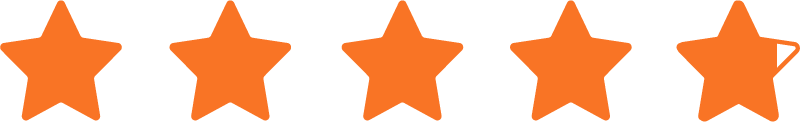
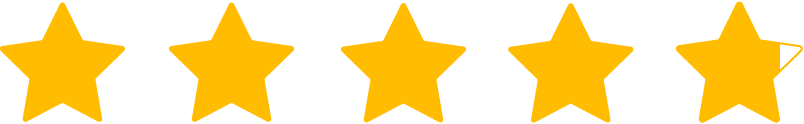
Cambios color loader, titulo video, reposicion secciones, color fondo contadores, redondeo clientes, estrellas clientes y equipo, título y ancho medios, rediseño footer

diff --git a/index.html b/index.html
@@ -69,7 +69,7 @@
 		<div class="loader-wrapper">
 			<div class="loader">
 				<div class="container-logo">
-					<img src="assets/img/Isotipo_medismart.png">
+					<img src="assets/img/Isotipo-medismart-blanco.png">
 				</div>	
 			</div>
 			<div class="loader-section section-left"></div>
@@ -363,6 +363,18 @@
 				</div>
 			</div>
 		</div>
+		<!-- End Banco Estado Area -->
+
+		<!-- Start Título y Video Area -->
+		<div class="banner-titulo pt-100 pb-70">
+			<div class= "celda">
+				<div class="titulo">¿SABÍAS QUE SOLO 4 DE CADA 10 VISITAS AL MÉDICO NECESITAN HACERSE DE FORMA PRESENCIAL?</div>
+				<video width="676" height="380" poster="assets/img/home-one/poster-video.png" controls>
+					<source src="assets/img/home-one/video-Medismart.mp4" type="video/mp4">
+				</video>
+			</div>
+		</div>
+		<!-- End Título y Video Area -->
 
 		<!-- Start Especialidades Area -->
 		<section class="area-especialidades">
@@ -436,15 +448,6 @@
 		</section>
 
 		<!-- End Especialidades Area -->
-
-		<!-- Start Título y Video Area -->
-		<div class="banner-titulo">
-			<div class= "celda">
-				<div class="titulo">¿SABÍAS QUE SOLO 4 DE CADA 10 VISITAS AL MÉDICO NECESITAN HACERSE DE FORMA PRESENCIAL?</div>
-				
-			</div>
-		</div>
-		<!-- End Título y Video Area -->
 
 		<!-- Start Nuestras Características Area -->
 		<section class="area-caracteristicas jarallax" data-jarallax='{"speed": 0.3}'>
@@ -541,18 +544,6 @@
 			</div>
 		</section>
 		<!-- End Contador Area -->
-
-		<!-- Start Video Presentación Area -->
-		<div class="banner-titulo">
-			<div class= "celda">
-				<video width="676" height="380" poster="assets/img/home-one/poster-video.png" controls>
-					<source src="assets/img/home-one/video-Medismart.mp4" type="video/mp4">
-				</video>
-				
-				
-			</div>
-		</div>
-		<!-- End Video Presentación Area -->
 
 		
 
@@ -904,7 +895,7 @@
 					</div>
 				</div>
 				<div class="sector-boton">
-					<a href="#" class="default-btn">
+					<a href="#" class="default-btn-3">
 						<div clas="text-area" style="text-decoration: none;">VER MÁS</div>
 					</a>
 				</div>
@@ -1126,7 +1117,7 @@
 											</div>
 
 											<div class="col-lg-12 col-sm-12">
-												<button type="submit" class="default-btn btn-two">
+												<button type="submit" class="default-btn-3 btn-two">
 													Enviar
 												</button>
 												<div id="msgSubmit" class="h3 text-center hidden"></div>
@@ -1152,8 +1143,11 @@
 		<!-- End Contacto Area -->
 
 		<!-- Start Medios Area -->
-		<section class="area-medios">
+		<section class="area-medios pt-100 pb-70">
 			<div class="container">
+				<div class="section-title">
+					DESTACADO EN
+				</div>
 				<div class="wrap-medios">
 					<div class="medio" style="width: 131px;">
 						<img src="assets/img/home-one/medios/Diario_Financiero_logo.png">
@@ -1188,7 +1182,7 @@
 					<div class="col-lg-3 col-md-6">
 						<div class="single-widget">
 							<a href="index.html">
-								<img src="assets/img/logo-medismart.png" alt="Image">
+								<img src="assets/img/logo-medismart-blanco.png" alt="Image">
 							</a>
 
 							<p>Compañía de telemedicina chilena líder en experiencia de pacientes en, contamos con un innovador modelo de atención con multiples especialidades y resultados en línea.</p>
@@ -1197,64 +1191,64 @@
 
 					<div class="col-lg-6 col-md-6">
 						<div class="single-widget open-time">
-							<h3>Horario de atención</h3>
+							<h3>HORARIO DE ATENCIÓN</h3>
 							<div class="row">
-								<div class="col-4">
+								<div class="col-3"></div>
+
+								<div class="col-6">
 									<ul>
 										<li>
-											<span>Atención Médica</span>
+											<span style="font-weight: 800;">ATENCIÓN MÉDICA</span>
 										</li>
 										<li>
 											<span>24 / 7</span>
 										</li>
 									</ul>
-								</div>
-								<div class="col-4">
 									<ul>
 										<li>
-											<span>Soporte</span>
+											<span style="font-weight: 800;">SOPORTE</span>
 										</li>
 										<li>
 											<span>8:30 AM - 11:59 PM</span>
 										</li>
 									</ul>
-								</div>
-								<div class="col-4">
 									<ul>
 										<li>
-											<span>Oficinas Centrales</span>
+											<span style="font-weight: 800;">OFICINAS CENTRALES</span>
 										</li>
 										<li>
 											<span>8:30 AM - 05:30 PM</span>
 										</li>
 									</ul>
 								</div>
+
+								<div class="col-3"></div>
 							</div>
 						</div>
 					</div>
 
 					<div class="col-lg-3 col-md-6">
 						<div class="single-widget contact">
-							<h3>Comunícate con nosotros</h3>
+							<h3>COMUNÍCATE CON NOSOTROS</h3>
 
 							<ul>
 								
 								<li class="pl-0">
 									<a href="mailto:hello@surety.com">
 										<i class="bx bx-envelope"></i>
-										<span>Correo:</span> 
+										<span>ATENCIÓN MÉDICA</span> 
 										contacto@medismart.live
 									</a>
 								</li>
 								
 								<li>
 									<i class="bx bx-location-plus"></i>
-									<span>Dirección:</span> 
+									<span>DIRECCIÓN</span> 
 									Avenida Manquehue Sur 350, Piso 2, Las Condes, Santiago
 								</li>
 							</ul>
 
-							<h3>Síguenos!</h3>
+							<h3>SÍGUENOS!</h3>
 						</div>
 						<div class="single-widget">
 							<div class="social-area">

diff --git a/assets/css/style.css b/assets/css/style.css
@@ -1233,7 +1233,7 @@ Banner Area Style
 }
 
 .main-banner-area .banner-text .banner-button-text-3 {
-  background-color: #ED801A;
+  background-color: #FFBC00;
   border-radius: 20px;
   height: 40px;
   width: 300px;
@@ -1259,7 +1259,7 @@ Banner Area Style
 }
 
 .main-banner-area .banner-text .banner-button-text-3 a:hover {
-  color: #ED801A;
+  color: #FFBC00;
 }
 
 .area-banner-principal .banner-img-wrap {
@@ -1465,7 +1465,7 @@ Contador Area Style
   position: relative;
   overflow: hidden;
   font-family: "Poppins";
-  background-color: #F7F7F7;
+  background-color: #999999;
   color: #000000;
 }
 
@@ -2410,7 +2410,6 @@ Work Area Style
   background-position: center center;
   background-repeat: no-repeat;
   background-size: cover;
-  height: 100%;
   position: relative;
   z-index: 1;
   font-family: "Poppins";
@@ -2434,6 +2433,10 @@ Work Area Style
 
 .our-work-area .owl-theme .owl-dots {
   line-height: 1;
+}
+
+.our-work-area .owl-theme .owl-stage-outer {
+  height: 250px;
 }
 
 .our-work-area .owl-theme .owl-dots .owl-dot span {
@@ -2748,7 +2751,7 @@ Appointment Area Style
   padding: 10px 50px;
 }
 
-.appointment-here-form .default-btn {
+.appointment-here-form .default-btn-3 {
   display: block;
   margin: 15px auto 0;
   width: 200px;
@@ -2846,7 +2849,17 @@ Medios Area Style
 ======================================================*/
 .area-medios {
   background-color: #f7f7f7;
-  height: 200px;
+
+}
+
+.area-medios .container {
+  max-width: 1300px;
+}
+
+.area-medios .section-title {
+  font-size: 43px;
+  color: #0081A4;
+  font-weight: 600;
 }
 
 .area-medios .container .wrap-medios {
@@ -2857,7 +2870,7 @@ Medios Area Style
 .area-medios .container .wrap-medios .medio {
   width: fit-content;
   height: 140px;
-  margin: 30px;
+  margin: 0 auto;
   position: relative;
   transition: 0.5s all;
 }
@@ -2975,7 +2988,7 @@ Client Area Style
   position: relative;
   font-family: "Poppins";
   height: auto;
-  border-radius: 40px;
+  border-radius: 25px;
 }
 
 .single-client img {
@@ -3003,7 +3016,7 @@ Client Area Style
 }
 
 .single-client ul li i {
-  color: #ED801A;
+  color: #FFBC00;
 }
 
 .single-client h3 {
@@ -3054,7 +3067,7 @@ Client Area Style
   text-align: center;
 }
 
-.client-area .default-btn {
+.client-area .default-btn-3 {
   display: inline-block;
   border-radius: 23px;
   margin-top: 10px;
@@ -3306,10 +3319,12 @@ Footer Top Area Style
 
 .single-widget img {
   margin-bottom: 20px;
+  margin-left: -10px;
 }
 
 .single-widget h3 {
-  font-size: 22px;
+  font-size: 15px;
+  font-weight: 800;
   margin-bottom: 30px;
   display: inline-block;
   color: #001430;
@@ -3414,7 +3429,7 @@ Footer Top Area Style
 
 .single-widget.contact ul li a span {
   display: block;
-  font-weight: 600;
+  font-weight: 800;
 }
 
 .single-widget.contact ul li i {
@@ -3427,7 +3442,7 @@ Footer Top Area Style
 
 .single-widget.contact ul li span {
   display: block;
-  font-weight: 600;
+  font-weight: 800;
 }
 
 .single-widget.open-time {
@@ -3436,6 +3451,10 @@ Footer Top Area Style
 
 .single-widget.open-time ul {
   padding: 0 10px;
+  margin-bottom: 30px;
+  text-align: left;
+  display: inline-block;
+  width: 77%;
 }
 
 .single-widget.open-time li {
@@ -8181,7 +8200,7 @@ Preloader Area Style*/
   top: 0;
   width: 51%;
   height: 100%;
-  background: #9de6ec;
+  background: #3BC1CD;
   z-index: 10;
 }
 
@@ -8236,7 +8255,7 @@ Preloader Area Style*/
   bottom: 5px;
   border-radius: 50%;
   border: 3px solid transparent;
-  border-top-color: #ED801A;
+  border-top-color: #FFBC00;
   -webkit-animation: spin-reverse .6s linear infinite;
           animation: spin-reverse .6s linear infinite;
 }
@@ -8250,7 +8269,7 @@ Preloader Area Style*/
   bottom: 15px;
   border-radius: 50%;
   border: 3px solid transparent;
-  border-top-color: #ffffff;
+  border-top-color: #E2E2E2;
   -webkit-animation: spin 1s linear infinite;
           animation: spin 1s linear infinite;
 }
